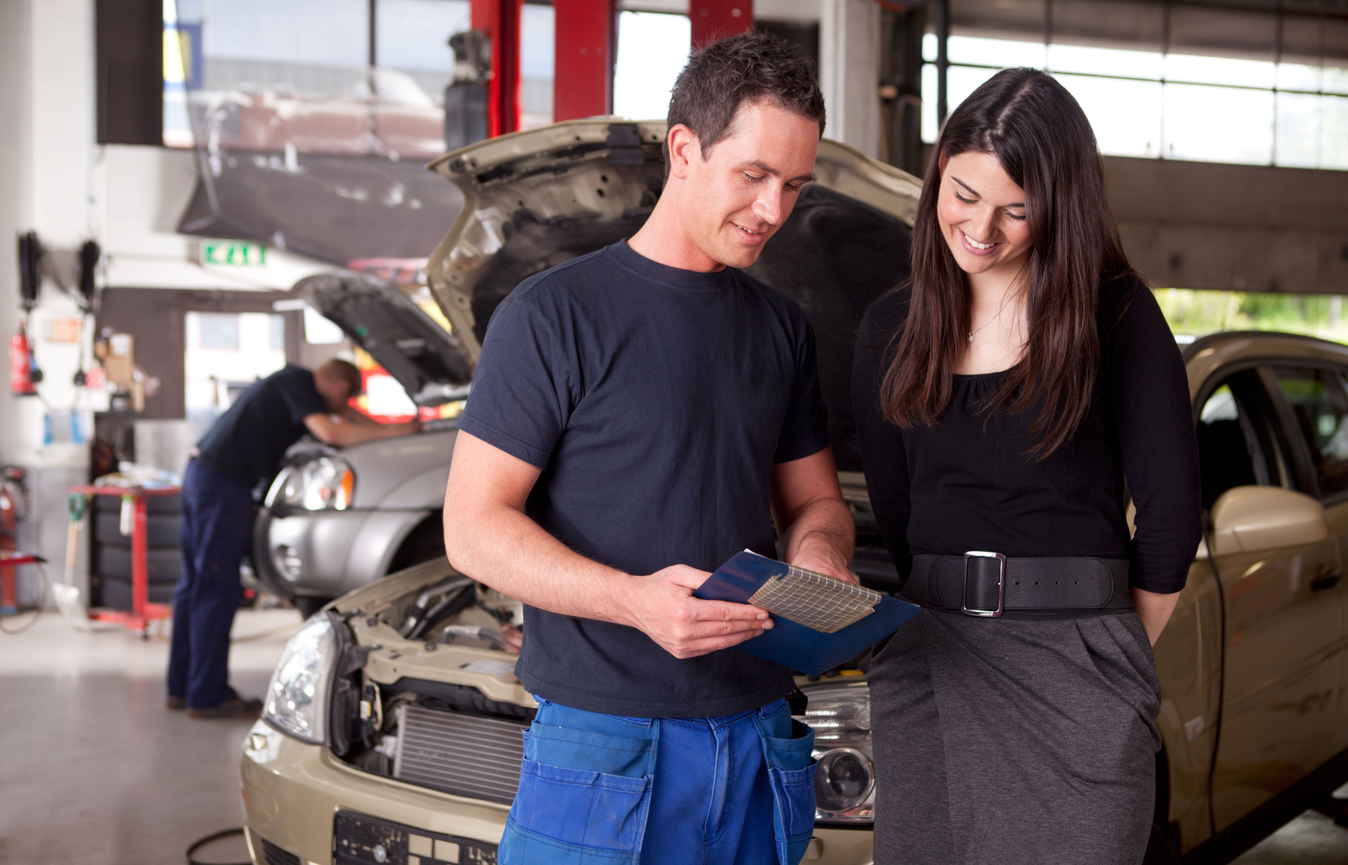
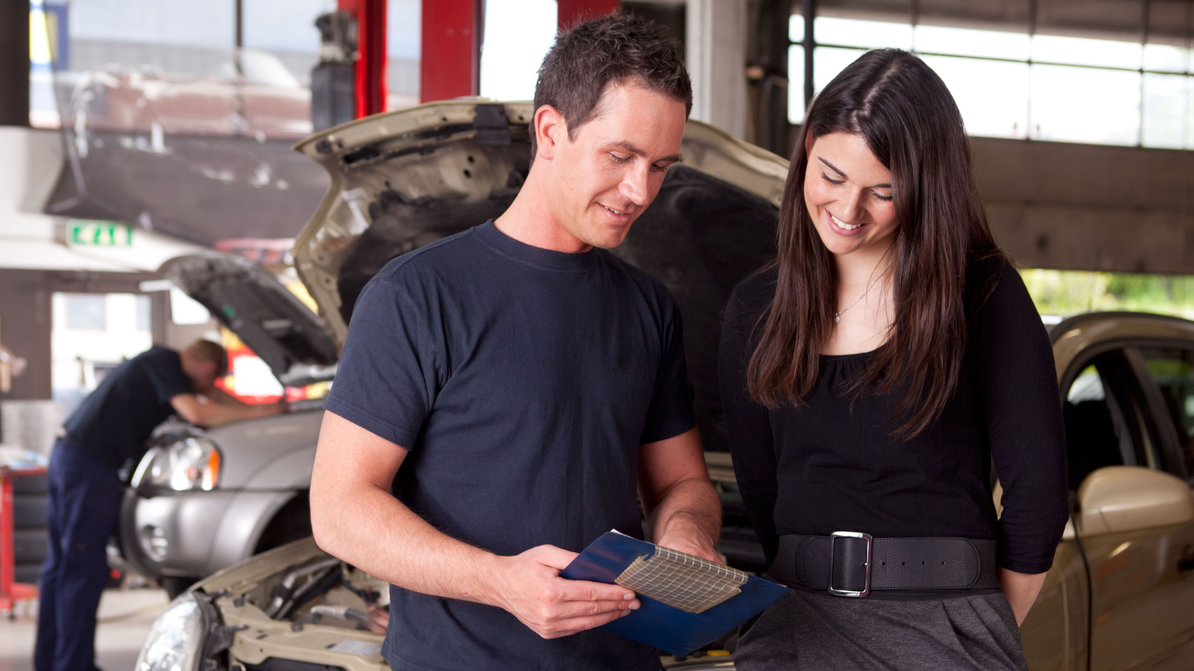
cropped index page image; added new css and html

diff --git a/prototype/style.css b/prototype/style.css
@@ -13,20 +13,17 @@ body {
 }
 main{
   padding: 1em 2.5em 1em 2.5em;
-  max-width: 1000px;
   margin: 0 auto;
-
 }
-header img{
+.logo{
   margin: 0 auto;
-  padding-bottom: 1.5em;
   padding-top: .5em;
+  padding-bottom: 2em;
   display: block;
 }
 img{
   margin: 0 auto;
   max-width: 100%;
-  width: 1000px;
   background-color: /* rgba(226,159,0,.5); */
   overflow: hidden;
 }
@@ -72,34 +69,26 @@ li{
   line-height: 1.35em;
   padding-bottom: .5em;
 }
+.hero{
+  width: 100%;
+}
 .main-nav{
   background-color: #161314;
-  margin: 0;
+  margin: 0
 }
 .main-nav li a{
   display: block;
-  padding: 1em;
+  padding: .5em;
   text-align: center;
-}
-@media all and (min-width: 40em) {
-  .main-nav li{
-    display: inline-block;
-    margin: 0 0.5em;
-  }
-  .main-nav li a {
-    padding: 1em 0.5em;
-    border: 0;
-    text-align: center;
-  }
 }
 nav li{
   list-style-type: none;
 }
 .schedule{
-  padding: 1em;
-  margin: 0 auto;
+  padding-top: .5em;
+  margin: 0;
   text-align: center;
-  font-size: 1.75em;
+  font-size: 1.25em;
   text-transform: uppercase;
   background-color: #e29f00;
 }
@@ -287,19 +276,16 @@ form{
 form h2{
   border-top: 1em solid black;
 }
-.progress-bar div{
-  background-color: lightgray;
-  padding: .5em;
-}
 .progress-bar h4{
-  padding-bottom: .35em;
-  border-bottom: solid .2em white;
-  border-top: solid .2em white;
-  padding-top: .35em;
+  border-top: solid .2em lightgray;
+  padding-top: 0;
+  font-size: .8em;
+  padding-bottom: 2em;
 }
 .progress-bar h3{
-  padding: .5em;
-  font-size: 1.5em;
+  font-size: 1em;
+  padding-top: 0;
+  padding-bottom: 0;
 }
 select{
   font-family: inherit;
@@ -353,4 +339,48 @@ textarea{
 .click a{
   color: white;
   background-color: #e29f00;
+}
+
+/* Media Queries */
+@media all and (min-width: 640px) {
+  .main-nav li{
+    display: inline-block;
+  }
+  .main-nav li a {
+    text-align: center;
+  }
+  .header-pt1{
+    display: flex;
+    background-color: #161314;
+    height: 120px;
+  }
+  .logo{
+    width: 38%;
+    margin-left: 2.5em;
+  }
+  .main-nav{
+    width: 62%;
+    margin: 0 auto;
+  }
+}
+@media screen and (min-width: 875px){
+  header{
+    display: flex;
+    background-color: #161314;
+    height: 120px;
+  }
+  .logo{
+    width: 38%;
+    margin-left: 2.5em;
+  }
+  .schedule{
+    width: 12%;
+  }
+  .schedule li{
+    display: inline-block;
+  }
+  main-nav{
+    width: 50%;
+    padding-left: 5em;
+  }
 }

diff --git a/prototype/schedule.html b/prototype/schedule.html
@@ -10,7 +10,7 @@
   <body>
     <header>
       <a href="index.html">
-        <img src="logo.svg" alt="Wrench_Automotive_Logo" style="width:200px;height:100px;"> </img>
+        <img class="logo" src="logo.svg" alt="Wrench_Automotive_Logo" style="width:200px;height:100px;"> </img>
       </a>
       <nav class="main-nav">
         <div class="schedule">
@@ -38,21 +38,21 @@
       <h1> Schedule An Appointment Online </h1>
       <p> Fill out this short form to schedule your appointment. Please give us a <a href="tel:330-672-3031"> call </a> if you have any questions or additional needs </p>
   <section class="progress-bar">
-    <div>
-      <h4> Step One </h4>
+    <div class="one progress">
       <h3> Customer Account </h3>
+      <h4> Step One </h4>
     </div>
-    <div>
-      <h4> Step Two </h4>
+    <div class="two progress">
       <h3> Vehicle Information and Services </h3>
+      <h4> Step Two </h4>
     </div>
-    <div>
-      <h4> Step Three </h4>
+    <div class="three progress">
       <h3> Choose Appointment Date and Time </h3>
+      <h4> Step Three </h4>
     </div>
-    <div>
-      <h4> Step Five </h4>
+    <div class="four progress">
       <h3> Confirmation </h3>
+      <h4> Step Four </h4>
     </div>
   </section>
   <section class="step-1">

diff --git a/prototype/index.html b/prototype/index.html
@@ -11,8 +11,9 @@
   </head>
   <body>
     <header>
+      <div class="header-pt1">
       <a href="index.html">
-        <img src="logo.svg" alt="Wrench_Automotive_Logo" style="width:200px;height:100px;"> </img>
+        <img class="logo" src="logo.svg" alt="Wrench_Automotive_Logo" style="width:200px;height:100px;"> </img>
         <nav class="main-nav">
           <ul>
             <li>
@@ -29,6 +30,7 @@
             </li>
           </ul>
         </nav>
+      </div>
         <div class="schedule">
           <li>
             <a href="schedule.html"> Schedule Online </a>
@@ -62,9 +64,9 @@
       </ul>
     </nav>
   -->
-      <img src="images/mechanic-customer.jpg" alt="Mechanic and Customer" >
-    </img>
     </header>
+    <img class="hero" src="images/mechanic-customer.jpg" alt="Mechanic and Customer" >
+  </img>
     <main>
       <a class="click" href="schedule.html">
         <h2> Schedule Your Appoinment Online Today </h2>

diff --git a/prototype/about.html b/prototype/about.html
@@ -9,8 +9,9 @@
   </head>
   <body>
       <header>
+        <div class="header-pt1">
         <a href="index.html">
-          <img src="logo.svg" alt="Wrench_Automotive_Logo" style="width:200px;height:100px;"> </img>
+          <img class="logo" src="logo.svg" alt="Wrench_Automotive_Logo" style="width:200px;height:100px;"> </img>
         </a>
         <nav class="main-nav">
           <div class="schedule">
@@ -33,6 +34,7 @@
             </li>
           </ul>
         </nav>
+      </div>
       </header>
       <main>
         <h1> We have built a great reputation by providing award winning auto repair services to get you back on the road quickly. </h1>

diff --git a/prototype/contact.html b/prototype/contact.html
@@ -10,6 +10,7 @@
   </head>
   <body>
     <header>
+      <div class="header-pt1">
       <a href="index.html">
         <img src="logo.svg" alt="Wrench_Automotive_Logo" style="width:200px;height:100px;"> </img>
       </a>
@@ -34,6 +35,7 @@
           </li>
         </ul>
       </nav>
+    </div>
     </header>
     <main>
       <h1> Schedule an Appointment Today </h1>

diff --git a/prototype/promotions.html b/prototype/promotions.html
@@ -11,7 +11,7 @@
   <body>
     <header>
       <a href="index.html">
-        <img src="logo.svg" alt="Wrench_Automotive_Logo" style="width:200px;height:100px;"> </img>
+        <img class="logo" src="logo.svg" alt="Wrench_Automotive_Logo" style="width:200px;height:100px;"> </img>
       </a>
       <nav class="main-nav">
         <div class="schedule">

diff --git a/prototype/services.html b/prototype/services.html
@@ -10,7 +10,7 @@
   <body>
    <header>
       <a href="index.html">
-        <img src="logo.svg" alt="Wrench_Automotive_Logo" style="width:200px;height:100px;"> </img>
+        <img class="logo" src="logo.svg" alt="Wrench_Automotive_Logo" style="width:200px;height:100px;"> </img>
       </a>
       <!--
 
